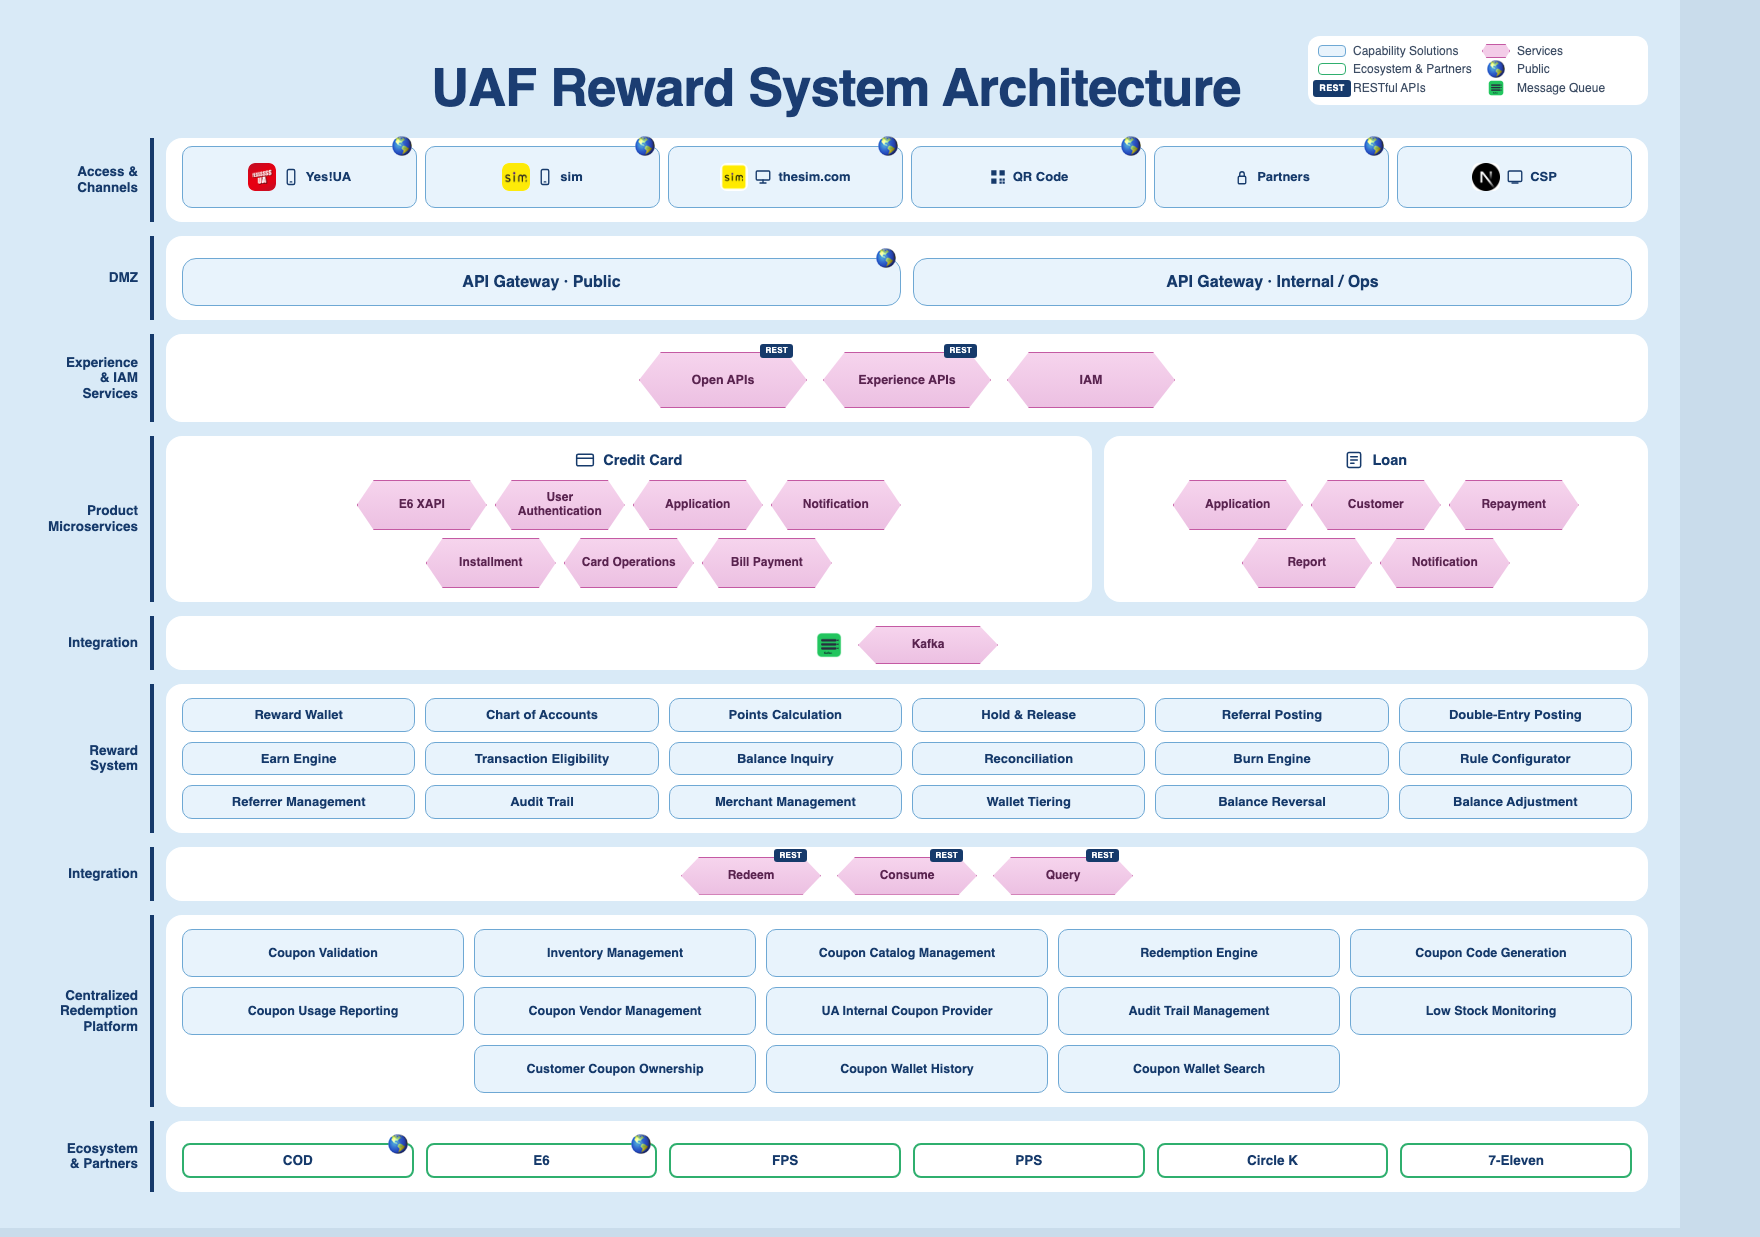
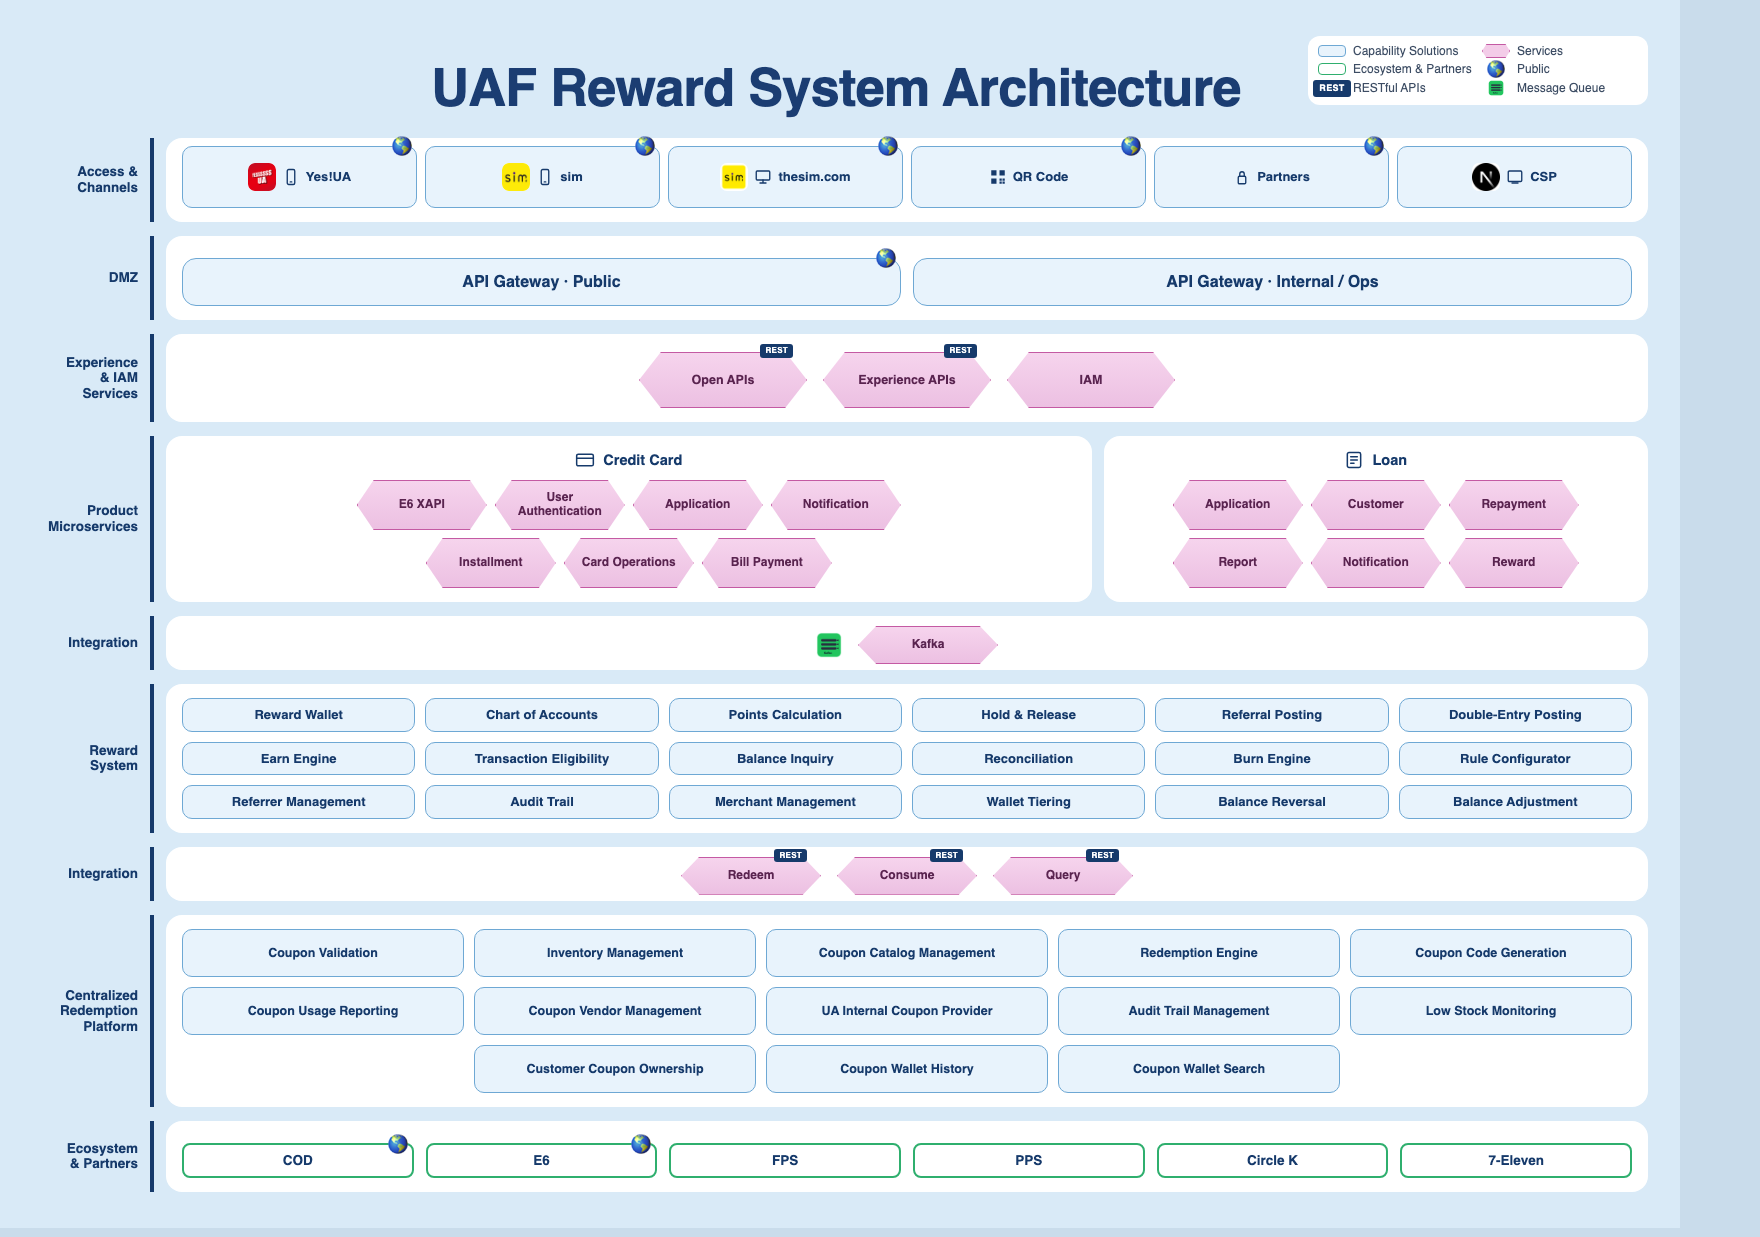
docs(decks): Loan island add Reward service, 3+3 rows

Changed region(s): [[0.6562, 0.4301, 0.9062, 0.4915]]

diff --git a/docs/decks/uaf-rewards-logical-architecture.html b/docs/decks/uaf-rewards-logical-architecture.html
@@ -191,8 +191,11 @@
           <div class="svc">Application</div>
           <div class="svc">Customer</div>
           <div class="svc">Repayment</div>
+        </div>
+        <div class="hexrow" style="margin-top:8px">
           <div class="svc">Report</div>
           <div class="svc">Notification</div>
+          <div class="svc">Reward</div>
         </div>
       </div>
     </div>
